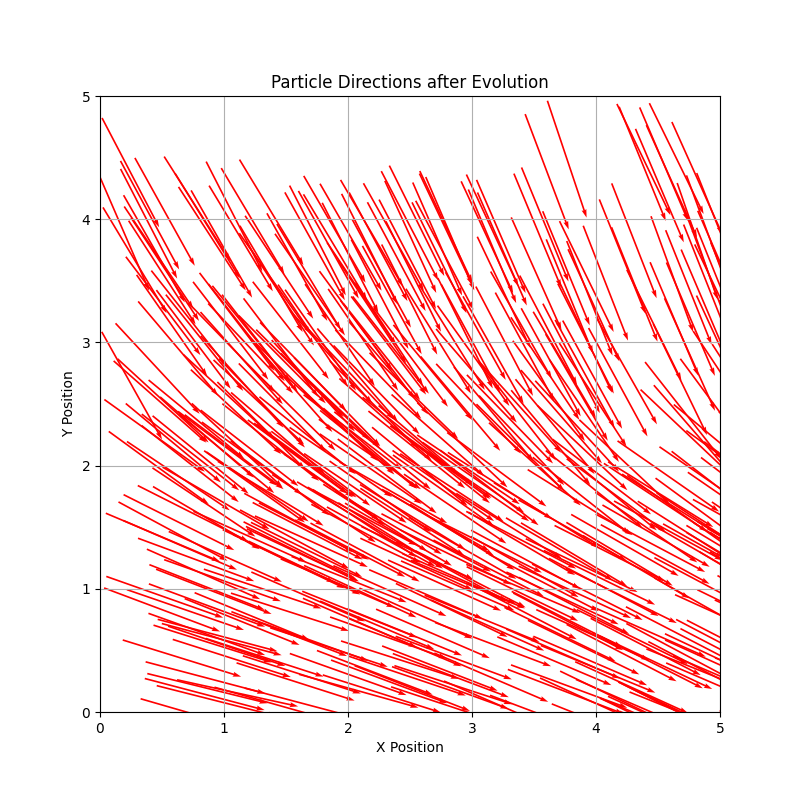
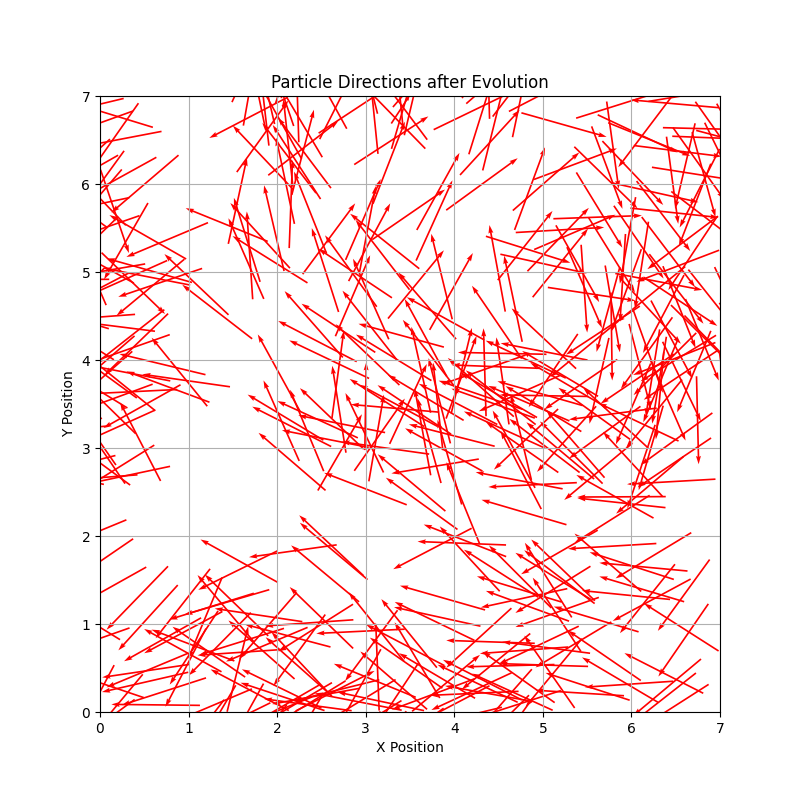
git add .

Changed region(s): [[0.125, 0.125, 0.9062, 0.9062]]

diff --git a/Premier modèle.py b/Premier modèle.py
@@ -3,15 +3,15 @@ import numpy as np
 import random
 import matplotlib.pyplot as plt
 
-L=5 #size
+L=7 #size
 r=1 #interaction radius
 delta_t=1 #time interval
 
-eta=0.1 #dispersion
+eta=2 #dispersion
 v=0.03 #distance entre deux collision
-N=500 #nombre de particule
+N=300 #nombre de particule
 rho=N/L**2 #densité
-T=20 #nombre d'itération
+T=100 #nombre d'itération
 def evolution(position,angle,N):
     delta_teta = np.random.uniform(-eta/2, eta/2, size=N)
     new_angle=np.zeros(N)
@@ -45,16 +45,59 @@ def initialisation(N):
         angle[i]=random.uniform(0,2*np.pi)
     return position,angle
 position,angle=initialisation(N)
+positions_history=[position.copy()]
 for t in range(T):
-    position,angle=evolution(position,angle,N)  
-
+    position,angle=evolution(position,angle,N)
+    positions_history.append(position.copy())
 
 plt.figure(figsize=(8,8))
-plt.quiver(position[:,0], position[:,1], np.cos(angle), np.sin(angle), angles='xy', scale_units='xy', scale=1, color='r')
+# Nombre de pas à afficher pour les trajectoires
+num_steps = min(20, len(positions_history))
+hist = np.array(positions_history[-num_steps:])  # shape (num_steps, N, 2)
+
+# Tracé des trajectoires pour chaque particule (courbe continue)
+for i in range(N):
+    traj = hist[:, i, :].copy()
+    # Dérouler les rebonds périodiques pour avoir une trajectoire continue
+    unwrapped = traj.copy()
+    for k in range(1, unwrapped.shape[0]):
+        dx = unwrapped[k, 0] - unwrapped[k-1, 0]
+        dy = unwrapped[k, 1] - unwrapped[k-1, 1]
+        if dx > L/2:
+            dx -= L
+        elif dx < -L/2:
+            dx += L
+        if dy > L/2:
+            dy -= L
+        elif dy < -L/2:
+            dy += L
+        unwrapped[k, 0] = unwrapped[k-1, 0] + dx
+        unwrapped[k, 1] = unwrapped[k-1, 1] + dy
+    # Recaler la trajectoire pour que le dernier point corresponde à la position finale (dans [0,L])
+    offset = position[i] - unwrapped[-1]
+    unwrapped += offset
+    # Préparer les coordonnées modulo pour l'affichage
+    xplot = unwrapped[:,0] % L
+    yplot = unwrapped[:,1] % L
+    # Construire des segments en insérant des NaN là où il y a un grand saut dû au recadrage
+    new_x = [xplot[0]]
+    new_y = [yplot[0]]
+    for k in range(1, len(xplot)):
+        dxp = xplot[k] - xplot[k-1]
+        dyp = yplot[k] - yplot[k-1]
+        if np.hypot(dxp, dyp) > L/4:
+            new_x.append(np.nan)
+            new_y.append(np.nan)
+        new_x.append(xplot[k])
+        new_y.append(yplot[k])
+    plt.plot(new_x, new_y, color='b', linewidth=0.5, alpha=0.6)
+
+# Flèches plus petites pour indiquer la direction actuelle
+plt.quiver(position[:,0], position[:,1], np.cos(angle), np.sin(angle), angles='xy', scale_units='xy', scale=20, width=0.003, color='r')
 plt.xlim(0, L)
 plt.ylim(0, L)
-plt.title('Particle Directions after Evolution')
+plt.title('Particle Directions and Last {} Steps Trajectories'.format(num_steps))
 plt.xlabel('X Position')
 plt.ylabel('Y Position')
 plt.grid()
-plt.savefig('small noise and higher density.png')
+plt.savefig('cas a.png')
